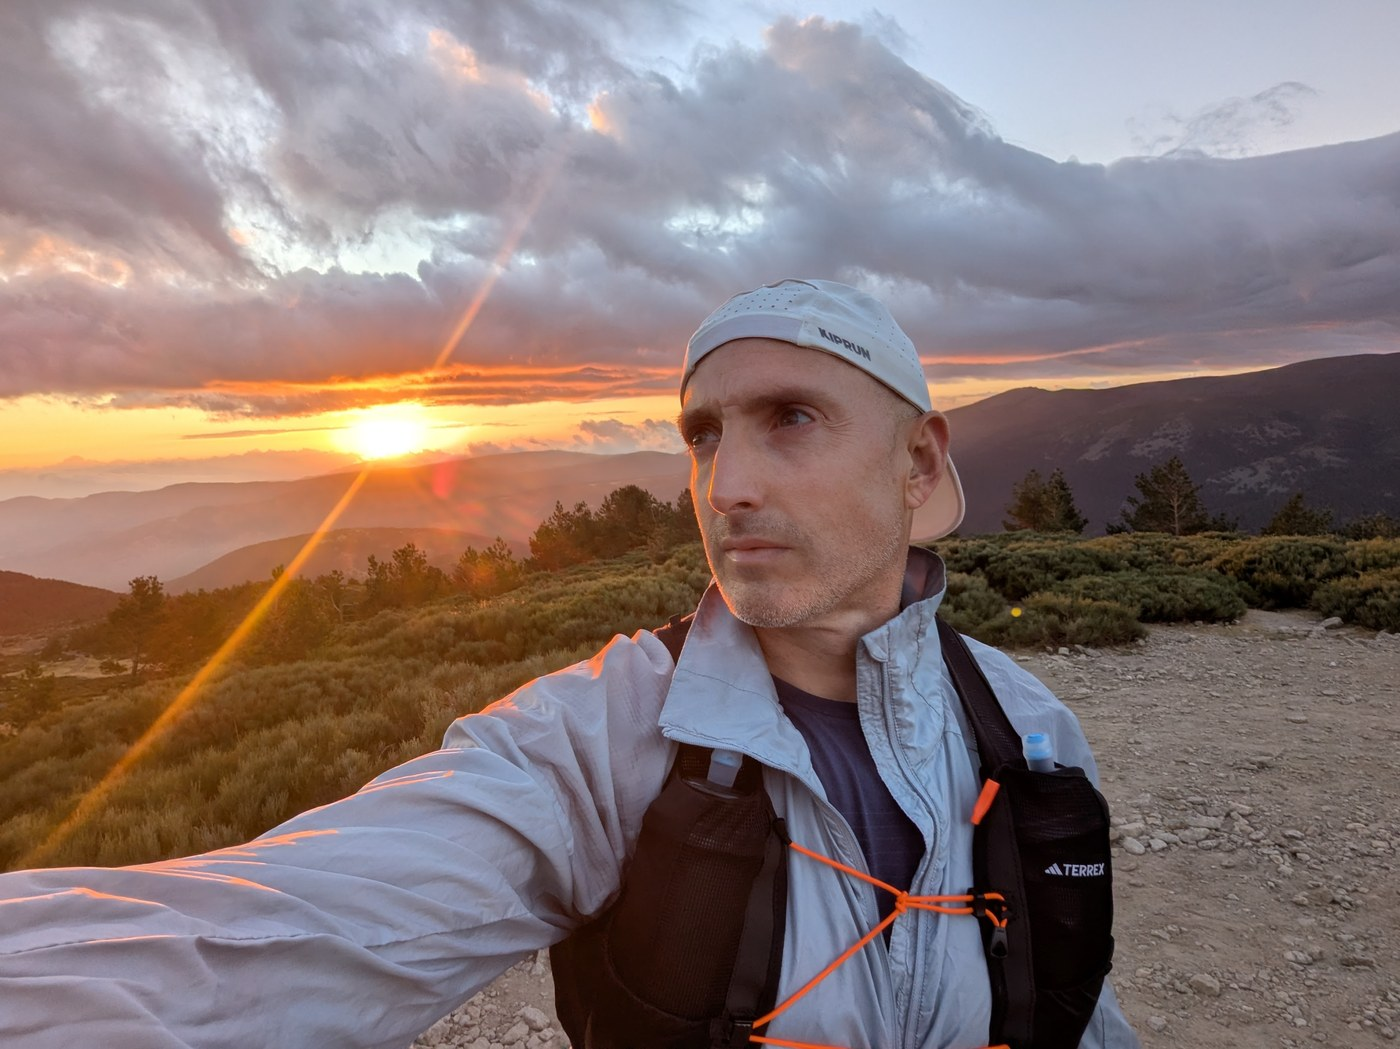
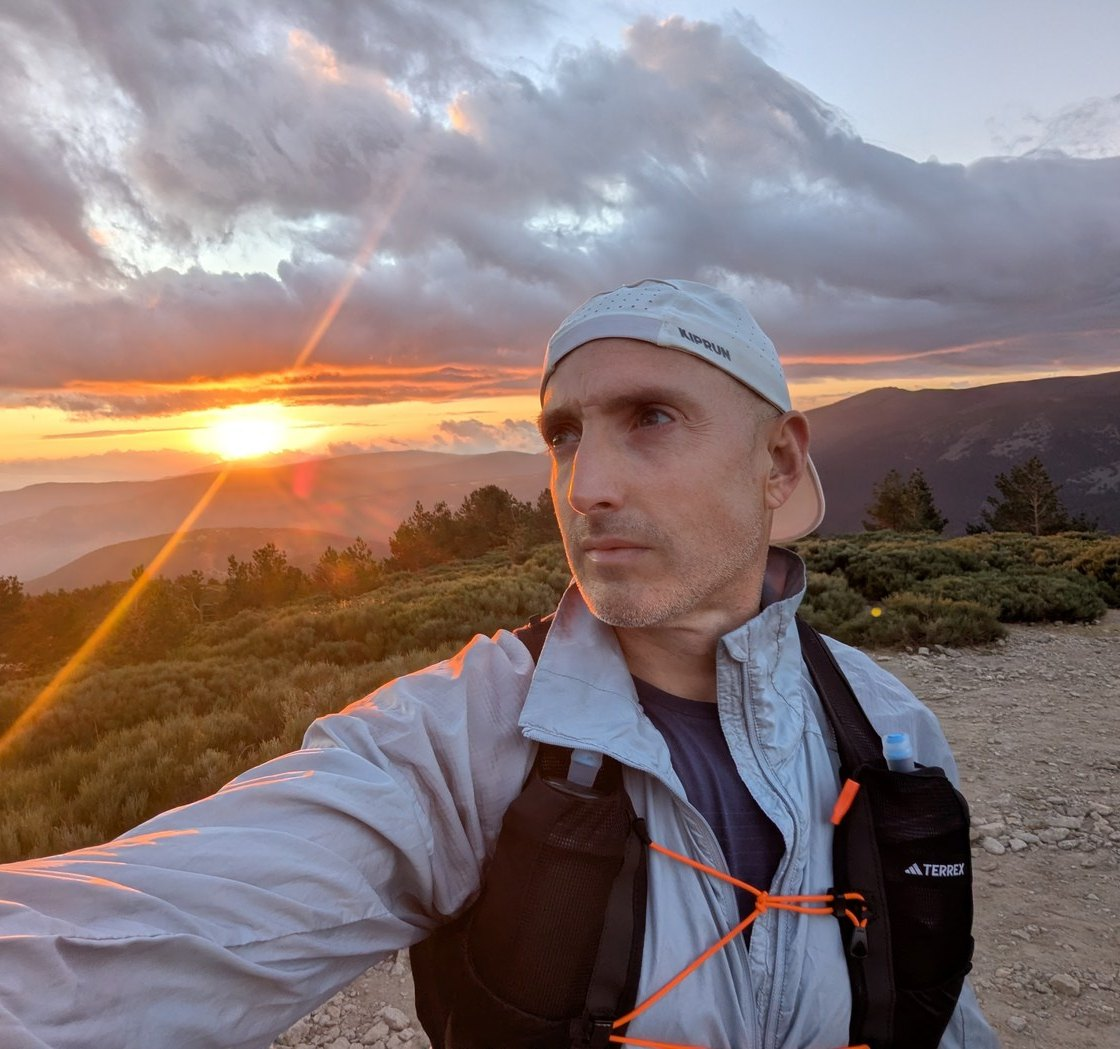
Foto de montaña: recorte del 10% a cada lado para una proporción más cuadrada
Recorta foto-trail.jpg/webp de 1400x1049 a 1120x1049 y ajusta la caja trasera (aspect-ratio) y los atributos width/height a la nueva proporción.

Claude-Session: https://claude.ai/code/session_01GNcvMUhyrr8nza2N7fM6eB

diff --git a/source/src.html b/source/src.html
@@ -108,7 +108,7 @@ html.touch .spot,html.touch .sec.bone,html.touch .panel.eggs{--sa:0;transition:-
 .flip{position:absolute;inset:0;transform-style:preserve-3d;transition:transform 1.1s cubic-bezier(.65,0,.2,1)}
 .pf{position:absolute;inset:0;overflow:hidden;backface-visibility:hidden;-webkit-backface-visibility:hidden}
 .pf picture{display:contents}
-.pf.pb{inset:auto 0;top:50%;aspect-ratio:4/3;transform:translateY(-50%) rotateY(180deg)}
+.pf.pb{inset:auto 0;top:50%;aspect-ratio:1120/1049;transform:translateY(-50%) rotateY(180deg)}
 .pf.pb img{position:absolute;inset:0;width:100%;height:100%;object-fit:cover;display:block;transform:none}
 .photo.flipped .flip{transform:rotateY(180deg)}
 .fi{position:absolute;right:10px;bottom:10px;width:34px;height:34px;padding:5px;box-sizing:border-box;border-radius:50%;z-index:2;pointer-events:none;fill:none;stroke:currentColor;stroke-width:1.7;stroke-linecap:round;stroke-linejoin:round;color:var(--oxblood);background:rgba(240,233,223,.5);-webkit-backdrop-filter:blur(6px);backdrop-filter:blur(6px);opacity:.5;transition:opacity .3s}
@@ -307,7 +307,7 @@ body{cursor:none}
           <div class="pills"><span class="pill">+20 años de experiencia</span><span class="pill">Banca digital</span><span class="pill">IA <svg class="sp" viewBox="0 0 100 100" aria-hidden="true"><use href="#spark"/></svg></span></div>
         </div>
       </div>
-      <div class="photo" id="flip"><div class="flip"><div class="pf"><picture><source srcset="__PHOTOWEBP__" type="image/webp"><img src="__PHOTO__" alt="Retrato de Alan Angelats, Lead Product Designer en Madrid" id="ph" width="1122" height="1402" fetchpriority="high" decoding="async"></picture><svg class="fi" viewBox="0 0 24 24" aria-hidden="true"><path d="M20.2 12.85A9 4.5 0 1 0 14.5 15.35"/><path d="M14.3 12.7L18.4 15.35L14.3 18Z" style="fill:currentColor"/></svg></div><div class="pf pb"><picture><source srcset="foto-trail.webp" type="image/webp"><img src="foto-trail.jpg" alt="Alan Angelats en la montaña al atardecer, con gorra, chaqueta y chaleco de trail" id="ph2" width="1400" height="1050" loading="lazy" decoding="async"></picture><svg class="fi" viewBox="0 0 24 24" aria-hidden="true"><path d="M20.2 12.85A9 4.5 0 1 0 14.5 15.35"/><path d="M14.3 12.7L18.4 15.35L14.3 18Z" style="fill:currentColor"/></svg></div></div><p class="pcap">Cuando no estoy diseñando, estoy corriendo en las montañas.</p></div>
+      <div class="photo" id="flip"><div class="flip"><div class="pf"><picture><source srcset="__PHOTOWEBP__" type="image/webp"><img src="__PHOTO__" alt="Retrato de Alan Angelats, Lead Product Designer en Madrid" id="ph" width="1122" height="1402" fetchpriority="high" decoding="async"></picture><svg class="fi" viewBox="0 0 24 24" aria-hidden="true"><path d="M20.2 12.85A9 4.5 0 1 0 14.5 15.35"/><path d="M14.3 12.7L18.4 15.35L14.3 18Z" style="fill:currentColor"/></svg></div><div class="pf pb"><picture><source srcset="foto-trail.webp" type="image/webp"><img src="foto-trail.jpg" alt="Alan Angelats en la montaña al atardecer, con gorra, chaqueta y chaleco de trail" id="ph2" width="1120" height="1049" loading="lazy" decoding="async"></picture><svg class="fi" viewBox="0 0 24 24" aria-hidden="true"><path d="M20.2 12.85A9 4.5 0 1 0 14.5 15.35"/><path d="M14.3 12.7L18.4 15.35L14.3 18Z" style="fill:currentColor"/></svg></div></div><p class="pcap">Cuando no estoy diseñando, estoy corriendo en las montañas.</p></div>
     </div>
   </div>
   <div class="marq" aria-hidden="true"><div class="track" id="track">

diff --git a/index.html b/index.html
@@ -143,7 +143,7 @@ html.touch .spot,html.touch .sec.bone,html.touch .panel.eggs{--sa:0;transition:-
 .flip{position:absolute;inset:0;transform-style:preserve-3d;transition:transform 1.1s cubic-bezier(.65,0,.2,1)}
 .pf{position:absolute;inset:0;overflow:hidden;backface-visibility:hidden;-webkit-backface-visibility:hidden}
 .pf picture{display:contents}
-.pf.pb{inset:auto 0;top:50%;aspect-ratio:4/3;transform:translateY(-50%) rotateY(180deg)}
+.pf.pb{inset:auto 0;top:50%;aspect-ratio:1120/1049;transform:translateY(-50%) rotateY(180deg)}
 .pf.pb img{position:absolute;inset:0;width:100%;height:100%;object-fit:cover;display:block;transform:none}
 .photo.flipped .flip{transform:rotateY(180deg)}
 .fi{position:absolute;right:10px;bottom:10px;width:34px;height:34px;padding:5px;box-sizing:border-box;border-radius:50%;z-index:2;pointer-events:none;fill:none;stroke:currentColor;stroke-width:1.7;stroke-linecap:round;stroke-linejoin:round;color:var(--oxblood);background:rgba(240,233,223,.5);-webkit-backdrop-filter:blur(6px);backdrop-filter:blur(6px);opacity:.5;transition:opacity .3s}
@@ -344,7 +344,7 @@ body{cursor:none}
           <div class="pills"><span class="pill">+20 años de experiencia</span><span class="pill">Banca digital</span><span class="pill">IA <svg class="sp" viewBox="0 0 100 100" aria-hidden="true"><use href="#spark"/></svg></span></div>
         </div>
       </div>
-      <div class="photo" id="flip"><div class="flip"><div class="pf"><picture><source srcset="foto.webp" type="image/webp"><img src="foto.jpg" alt="Retrato de Alan Angelats, Lead Product Designer en Madrid" id="ph" width="1122" height="1402" fetchpriority="high" decoding="async"></picture><svg class="fi" viewBox="0 0 24 24" aria-hidden="true"><path d="M20.2 12.85A9 4.5 0 1 0 14.5 15.35"/><path d="M14.3 12.7L18.4 15.35L14.3 18Z" style="fill:currentColor"/></svg></div><div class="pf pb"><picture><source srcset="foto-trail.webp" type="image/webp"><img src="foto-trail.jpg" alt="Alan Angelats en la montaña al atardecer, con gorra, chaqueta y chaleco de trail" id="ph2" width="1400" height="1050" loading="lazy" decoding="async"></picture><svg class="fi" viewBox="0 0 24 24" aria-hidden="true"><path d="M20.2 12.85A9 4.5 0 1 0 14.5 15.35"/><path d="M14.3 12.7L18.4 15.35L14.3 18Z" style="fill:currentColor"/></svg></div></div><p class="pcap">Cuando no estoy diseñando, estoy corriendo en las montañas.</p></div>
+      <div class="photo" id="flip"><div class="flip"><div class="pf"><picture><source srcset="foto.webp" type="image/webp"><img src="foto.jpg" alt="Retrato de Alan Angelats, Lead Product Designer en Madrid" id="ph" width="1122" height="1402" fetchpriority="high" decoding="async"></picture><svg class="fi" viewBox="0 0 24 24" aria-hidden="true"><path d="M20.2 12.85A9 4.5 0 1 0 14.5 15.35"/><path d="M14.3 12.7L18.4 15.35L14.3 18Z" style="fill:currentColor"/></svg></div><div class="pf pb"><picture><source srcset="foto-trail.webp" type="image/webp"><img src="foto-trail.jpg" alt="Alan Angelats en la montaña al atardecer, con gorra, chaqueta y chaleco de trail" id="ph2" width="1120" height="1049" loading="lazy" decoding="async"></picture><svg class="fi" viewBox="0 0 24 24" aria-hidden="true"><path d="M20.2 12.85A9 4.5 0 1 0 14.5 15.35"/><path d="M14.3 12.7L18.4 15.35L14.3 18Z" style="fill:currentColor"/></svg></div></div><p class="pcap">Cuando no estoy diseñando, estoy corriendo en las montañas.</p></div>
     </div>
   </div>
   <div class="marq" aria-hidden="true"><div class="track" id="track">
